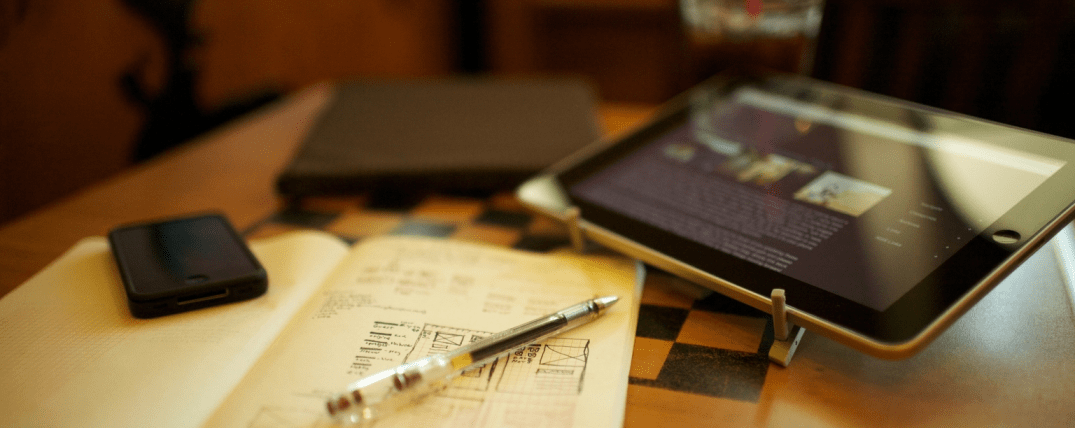
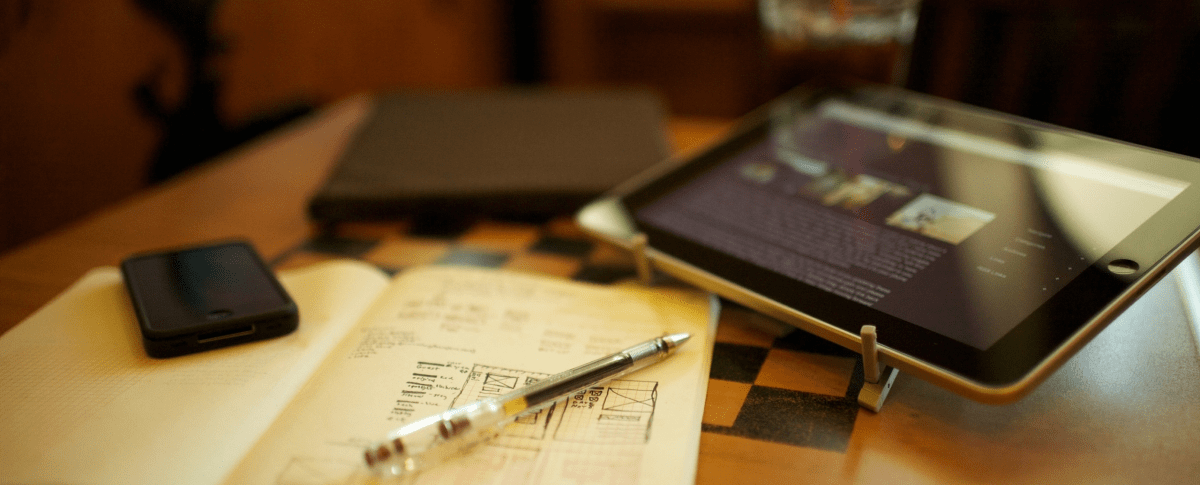
feat: Slider pict's has higher res.
Also some PP for the slider.

diff --git a/index.html b/index.html
@@ -149,7 +149,7 @@
 
           <!-- Wrapper for slides -->
           <div class="carousel-inner" role="listbox">
-            <div class="item active">
+            <div class="main-slider__item item active">
               <img class ="main-slider__img" src="img/slider_med.png" srcset="img/slider_med.png 1x, img/slider_big.png 2x" alt="Сайт для детского сада">
               <div class="carousel-caption main-slider__caption">
                 <div class="main-slider__infoblock">
@@ -159,7 +159,7 @@
                 </div>
               </div>
             </div>
-            <div class="item">
+            <div class="main-slider__item item">
               <img class ="main-slider__img" src="img/slider_med.png" srcset="img/slider_med.png 1x, img/slider_big.png 2x" alt="Сайт для детского сада">
               <div class="carousel-caption main-slider__caption">
                 <div class="main-slider__infoblock">
@@ -169,7 +169,7 @@
                 </div>
               </div>
             </div>
-            <div class="item">
+            <div class="main-slider__item item">
               <img class ="main-slider__img" src="img/slider_med.png" srcset="img/slider_med.png 1x, img/slider_big.png 2x" alt="Сайт для детского сада">
               <div class="carousel-caption main-slider__caption">
                 <div class="main-slider__infoblock">

diff --git a/styles.css b/styles.css
@@ -394,7 +394,7 @@ body {
   font-size: 16px;
   line-height: 18px;
   width: 211px;
-  height: 50px;
+  height: 51px;
   margin-left: 6px;
   margin-top: 2px;
   padding-right: 6px;
@@ -429,7 +429,7 @@ body {
 .main-slider__ctrl-icon {
   display: block;
   position: absolute;
-  top: 44.7%;
+  top: 214px;
   width: 20px;
   height: 37px;
   margin-left: -10px;
@@ -454,8 +454,7 @@ body {
 
 .main-slider__img {
   width: 100%;
-  object-fit: cover;
-  max-height: 483px;
+  margin: 0;
 }
 
 .main-slider__infoblock {
@@ -467,13 +466,19 @@ body {
   text-shadow: none;
 }
 
+.main-slider__item {
+  margin: 0;
+  overflow: hidden;
+  height: 483px;
+}
+
 .main-slider__text {
   font-weight: 400;
   font-size: 18px;
   line-height: 24px;
   letter-spacing: 0.002em;
-  padding: 5px 3px;
-  margin: 1em 0;
+  padding: 4px 3px;
+  margin: 19px 0;
 }
 
 
